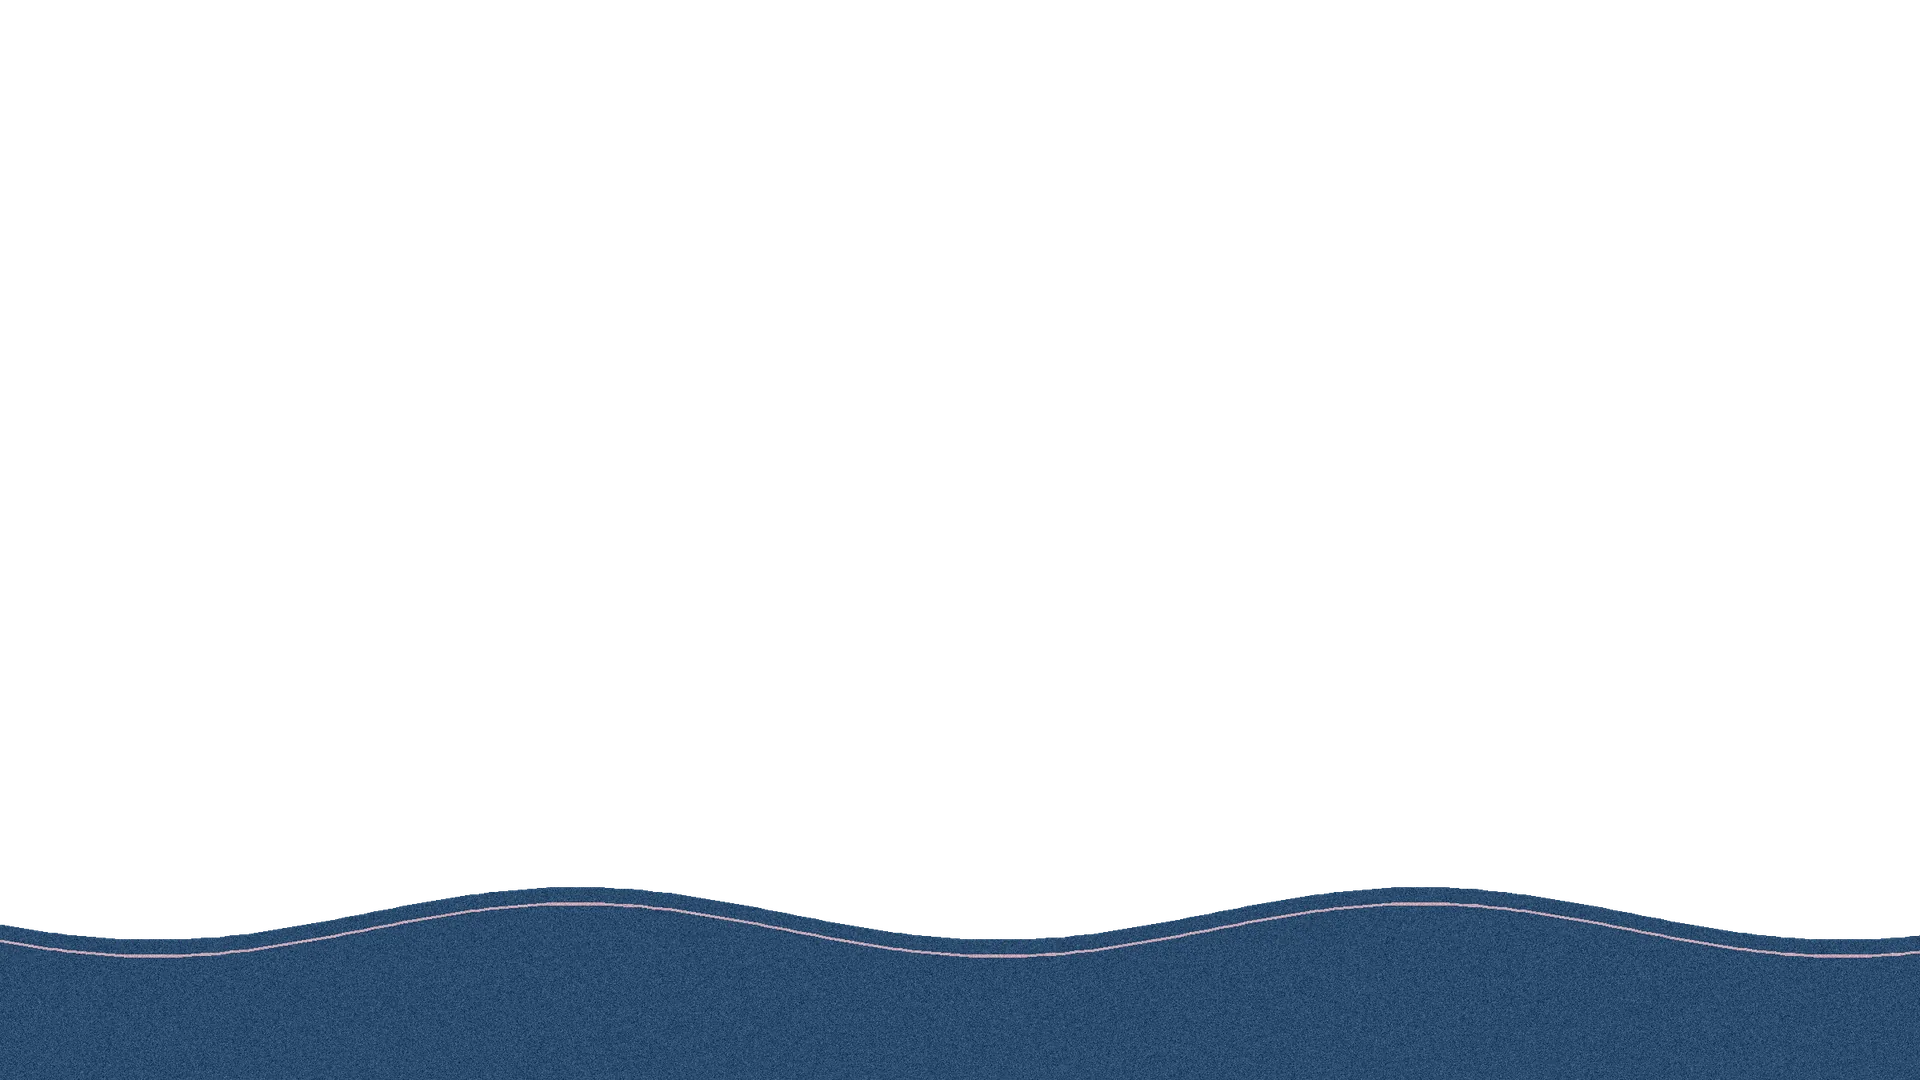
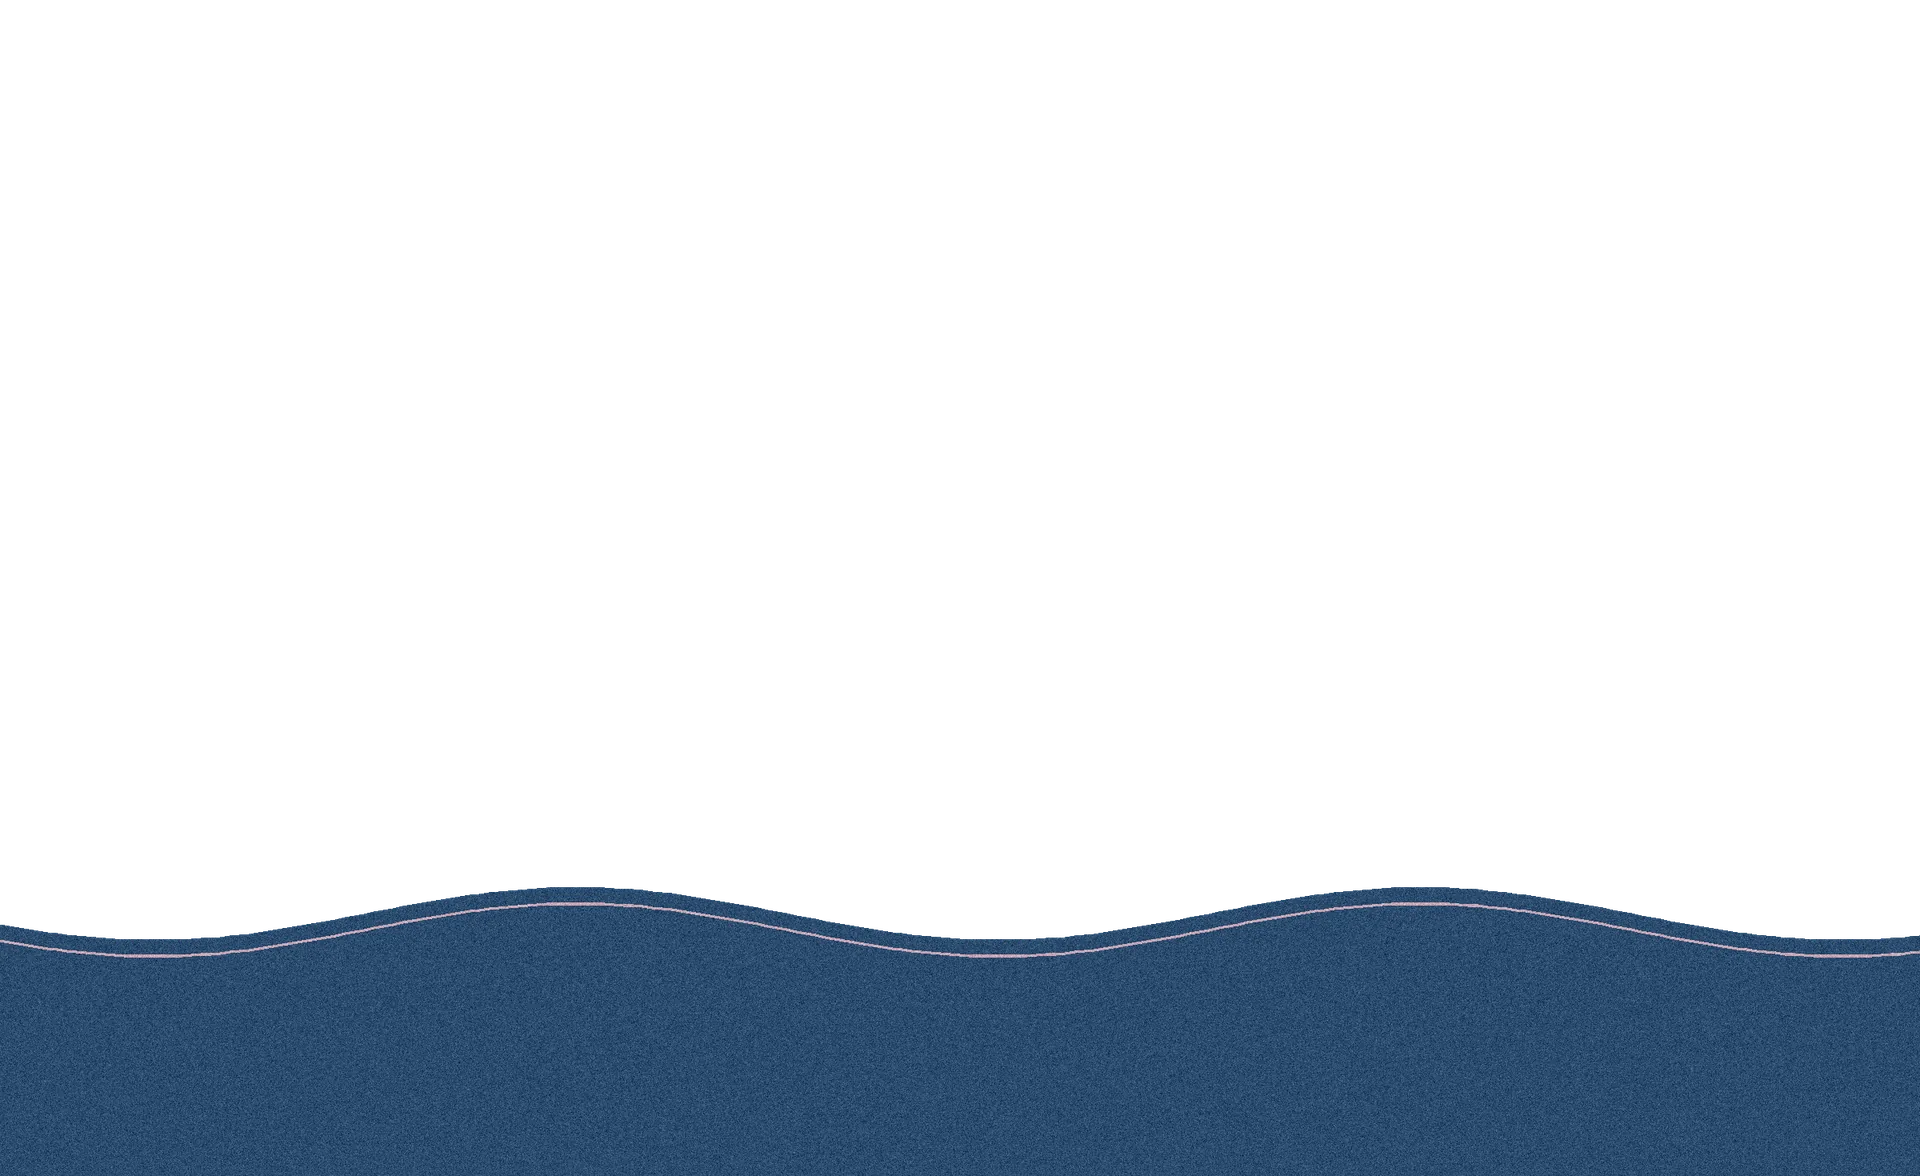
Latest issue trims to the image height; day-only pills; finer wave strip; no gap under rising swell
- Latest issue: counts removed; summary clamps to end level with the image, then Read the issue
- Pills show just the weekday
- Seigaiha strip is a 16px repeating tile instead of a stretched image
- Swell band layers run past the frame so lifting never shows a gap

Claude-Session: https://claude.ai/code/session_01CPFfiZz4rjPwAdTY8Ptavd

Changed region(s): [[0.0, 0.7333, 1.0, 0.9167]]

diff --git a/site/static/style.css b/site/static/style.css
@@ -55,7 +55,7 @@ img{max-width:100%;display:block}
 .art-ext{display:none}
 /* motion: the wave surges forward and settles; each swell band lifts on its own rhythm */
 .art .wave{transform-origin:82% 88%;animation:surge 7s ease-in-out infinite;will-change:transform}
-.art .band,.art-ext .band{animation:bob 6s ease-in-out infinite;will-change:transform}
+.art .band,.art-ext .band{height:auto;bottom:auto;animation:bob 6s ease-in-out infinite;will-change:transform}
 .b1{--lift:-.35%;animation-duration:6.4s!important;animation-delay:-.4s!important}
 .b2{--lift:-.5%;animation-duration:5.8s!important;animation-delay:-1.6s!important}
 .b3{--lift:-.6%;animation-duration:6.9s!important;animation-delay:-2.9s!important}
@@ -82,15 +82,18 @@ img{max-width:100%;display:block}
 .signup input::placeholder{color:var(--faint)}
 .signup button{padding:16px 24px;font-size:17px}
 .signup-note{font-size:15px;color:var(--muted);min-height:1.4em;margin:0}
-.strip{width:100%;height:auto;aspect-ratio:1200/32}
+.strip{height:16px;background:url(/assets/blog/seigaiha_tile.jpg) 0 0/auto 16px repeat-x}
 
 /* latest */
 .latest{padding-top:80px;padding-bottom:72px;display:flex;flex-direction:column;gap:32px}
-.latest-grid{display:grid;grid-template-columns:minmax(0,640px) 1fr;gap:56px;align-items:start}
+.latest-grid{display:grid;grid-template-columns:minmax(0,640px) 1fr;gap:56px;align-items:stretch}
 .pic{position:relative;overflow:hidden}
 .pic img{width:100%;height:100%;object-fit:cover}
 .latest .pic{aspect-ratio:16/10}
-.latest-body{display:flex;flex-direction:column;gap:18px}
+.latest-body{display:flex;flex-direction:column;gap:18px;height:0;min-height:100%}
+.latest-body .clamp{flex:1 1 0;min-height:0;overflow:hidden;display:-webkit-box;-webkit-box-orient:vertical}
+.latest-body .more{margin-top:auto;color:var(--wine);font-weight:600;text-decoration:none;font-size:17px;white-space:nowrap}
+.latest-body .more:hover{text-decoration:underline}
 .latest-body .meta{font-size:15px}
 .latest-body h2{margin:0;font-size:40px;line-height:1.12}
 .latest-body h2 a,.row h3 a{text-decoration:none}
@@ -259,6 +262,8 @@ img{max-width:100%;display:block}
   .hero .lede{font-size:18px}
   .latest{padding-top:56px;padding-bottom:48px}
   .latest-grid{grid-template-columns:1fr;gap:24px}
+  .latest-body{height:auto;min-height:0}
+  .latest-body .clamp{flex:none;-webkit-line-clamp:5!important}
   .latest-body h2{font-size:30px}
   .week{padding-top:56px;padding-bottom:56px}
   .week-head{flex-direction:column;align-items:flex-start}

diff --git a/site/static/site.js b/site/static/site.js
@@ -18,3 +18,22 @@
     });
   });
 })();
+
+// Latest issue: trim the summary so the text column ends level with the image, then "Read the issue".
+(function () {
+  var narrow = window.matchMedia('(max-width:860px)');
+  function fit() {
+    document.querySelectorAll('.clamp').forEach(function (p) {
+      p.style.maxHeight = '';
+      if (narrow.matches) { p.style.webkitLineClamp = ''; return; }
+      var lh = parseFloat(getComputedStyle(p).lineHeight) || 30;
+      var n = Math.max(2, Math.floor(p.clientHeight / lh));
+      p.style.webkitLineClamp = String(n);
+      p.style.maxHeight = n * lh + 'px';
+    });
+  }
+  fit();
+  window.addEventListener('resize', fit);
+  window.addEventListener('load', fit);
+  if (document.fonts && document.fonts.ready) document.fonts.ready.then(fit);
+})();

diff --git a/site/static/archive.js b/site/static/archive.js
@@ -30,7 +30,7 @@
   function row(i) {
     return '<li class="row"><span class="num" aria-hidden="true">' + i.n + '</span>' +
       '<a class="pic" href="' + i.href + '" tabindex="-1" aria-hidden="true"><img src="' + esc(i.img) + '" alt="" loading="lazy"><span class="grain"></span></a>' +
-      '<div class="txt"><div class="meta"><span class="tag" style="background:' + i.color + '">' + esc(i.day) + ' · ' + esc(i.theme) + '</span><span>' + esc(i.long) + '</span></div>' +
+      '<div class="txt"><div class="meta"><span class="tag" style="background:' + i.color + '">' + esc(i.day) + '</span><span>' + esc(i.long) + '</span></div>' +
       '<h3><a href="' + i.href + '">' + esc(i.title) + '</a></h3><p>' + esc(i.dek) + '</p></div>' +
       '</li>';
   }

diff --git a/art/blog/banner_layers.py b/art/blog/banner_layers.py
@@ -20,24 +20,25 @@ BASE = 430 + 115
 
 def band(im, i):
     d = ImageDraw.Draw(im)
+    Hc = im.size[1]
     col = cols[i]
     y0 = BASE + i * 26
     top = [(x * S, (y0 + math.sin(x / (90 - i * 6) + i) * (18 - i * 1.5)) * S) for x in range(0, 1210, 6)]
-    d.polygon(top + [(W, H), (0, H)], fill=col)
+    d.polygon(top + [(W, Hc), (0, Hc)], fill=col)
     lt = [(x * S, (y0 + 10 + math.sin(x / (90 - i * 6) + i) * (18 - i * 1.5)) * S) for x in range(0, 1210, 6)]
     d.line(lt, fill=c['foamb'] if i % 2 == 0 else c['mauve'], width=2 * S)
 
 
-def save(im, name, seed, amt=14, alpha=False):
+def save(im, name, seed, amt=14, alpha=False, size=(1920, 1080)):
     im = ImageOps.mirror(im)
     rng = np.random.default_rng(seed)
     a = np.asarray(im.convert('RGBA' if alpha else 'RGB'), dtype=float)
     a[..., :3] += rng.normal(0, amt, a.shape[:2])[..., None]
     out = Image.fromarray(np.clip(a, 0, 255).astype('uint8'))
     if alpha:  # resize premultiplied so edges don't pick up dark fringes
-        out = out.convert('RGBa').resize((1920, 1080), Image.LANCZOS).convert('RGBA')
+        out = out.convert('RGBa').resize(size, Image.LANCZOS).convert('RGBA')
     else:
-        out = out.resize((1920, 1080), Image.LANCZOS)
+        out = out.resize(size, Image.LANCZOS)
     out.save(OUT + name, quality=82, method=6)
     print(name, os.path.getsize(OUT + name) // 1024, 'KB')
 
@@ -56,7 +57,9 @@ wave(im, 10, 110, 0.6, c['indigo'], c['skyb'], c['mist'], seed=5, soft=True, par
 save(im, 'wave.webp', 8, alpha=True)
 
 # front bands, one per layer
+# each band runs 60px past the bottom of the frame, so lifting it never opens a gap underneath
+EXT = 60
 for i in range(1, len(cols)):
-    im = Image.new('RGBA', (W, H), (0, 0, 0, 0))
+    im = Image.new('RGBA', (W, H + EXT * S), (0, 0, 0, 0))
     band(im, i)
-    save(im, f'band{i}.webp', 10 + i, alpha=True)
+    save(im, f'band{i}.webp', 10 + i, alpha=True, size=(1920, round(1080 * (H + EXT * S) / H)))
